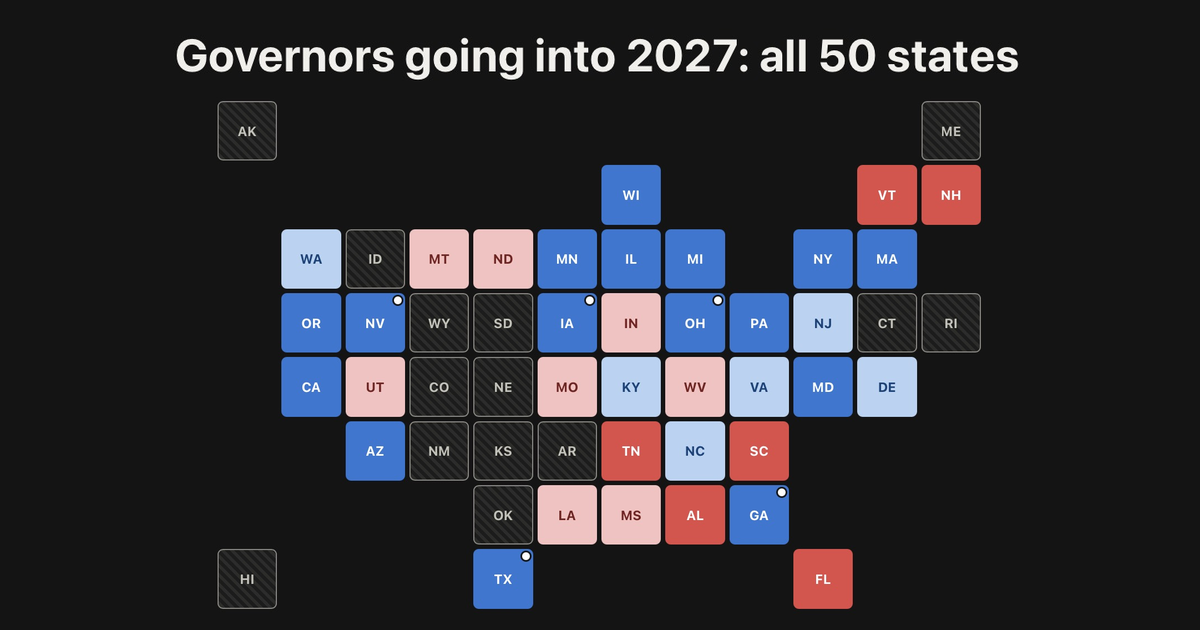
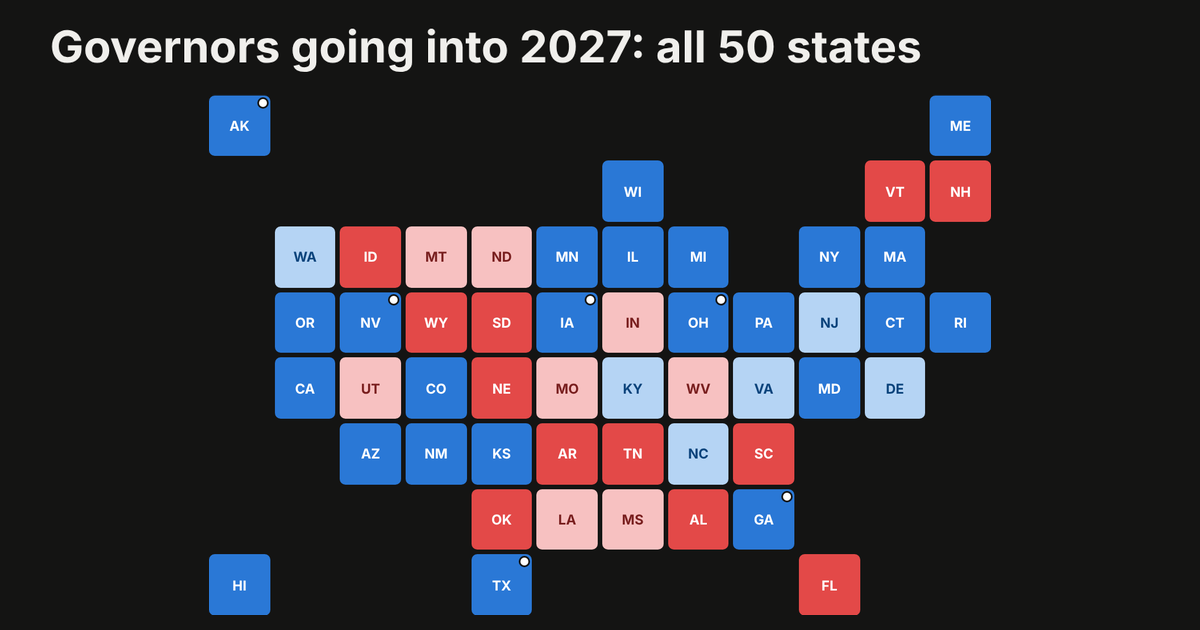
Final governor results with term limits

diff --git a/governor.html b/governor.html
@@ -58,21 +58,21 @@ ul{padding-left:20px;margin:0 0 14px}
 <main>
 <p class="brand">The Truth Hurts! · 7 Levels Deep</p>
 <h1>Governors going into 2027: all 50 states</h1>
-<p class="lead">36 states elected governors on November 3, 2026. Five changed parties, all from Republican to Democrat. Here's who holds every governorship as the results come in.</p>
+<p class="lead">36 states elected governors on November 3, 2026. Six changed parties, all from Republican to Democrat. Here's who holds every governorship going into 2027.</p>
 
 <div class="stats3">
-<div class="stat"><b id="nD" style="color:var(--blue)">22</b><span>Democratic (confirmed)</span></div>
-<div class="stat"><b id="nR" style="color:var(--red)">14</b><span>Republican (confirmed)</span></div>
-<div class="stat"><b id="nP">14</b><span>Pending</span></div>
+<div class="stat"><b id="nD" style="color:var(--blue)">30</b><span>Democratic</span></div>
+<div class="stat"><b id="nR" style="color:var(--red)">20</b><span>Republican</span></div>
+<div class="stat"><b>6</b><span>Flipped, all R to D</span></div>
 </div>
 
+<p class="hint"><b>Term length:</b> 4 years in 48 states, 2 years in New Hampshire and Vermont. <b>Term limits:</b> 37 states limit how long a governor can serve; 13 have no limit.</p>
 <p class="hint">Each square is one state, placed roughly where it sits on the map. Tap any state to see its governor.</p>
 <div class="lg2">
 <span><span class="sw" style="background:#2a78d6"></span>Democrat, decided in 2026</span>
 <span><span class="sw" style="background:#e34948"></span>Republican, decided in 2026</span>
 <span><span class="sw" style="background:#B5D4F4"></span>Democrat, no race in 2026</span>
 <span><span class="sw" style="background:#F7C1C1"></span>Republican, no race in 2026</span>
-<span><span class="sw" style="background:repeating-linear-gradient(45deg,#ddd,#ddd 2px,#999 2px,#999 3px)"></span>Pending</span>
 <span><span class="sw" style="background:#2a78d6"><span style="position:absolute;top:1px;right:1px;width:4px;height:4px;border-radius:50%;background:#fff"></span></span>Flipped in 2026</span>
 </div>
 <div class="gm" id="gm" role="group" aria-label="Tile map of all 50 states by governor's party"></div>
@@ -86,10 +86,11 @@ ul{padding-left:20px;margin:0 0 14px}
 <ul>
 <li><b>Solid colors</b> are races decided in 2026.</li>
 <li><b>Pale colors</b> are the 14 states that didn't elect a governor this year. Kentucky, Louisiana and Mississippi vote in 2027. New Jersey and Virginia vote in 2029. The rest vote in 2028.</li>
-<li><b>Striped squares</b> are races not yet confirmed in the sources we use. They're filled in as results are called.</li>
-<li>A <b>white dot</b> marks a state that flipped parties in 2026: Texas, Georgia, Ohio, Iowa and Nevada.</li>
+<li>A <b>white dot</b> marks a state that flipped parties in 2026: Alaska, Georgia, Iowa, Nevada, Ohio and Texas.</li>
 </ul>
 
+<h2>Term limits: who can run again?</h2>
+<p>Tap any state to see which term its governor is serving in 2027 and that state's limit. Rules differ widely: 28 states cap consecutive terms (usually two), 9 cap lifetime service, Virginia bans back-to-back terms, and 13 states have no limit at all. Vermont's Phil Scott, for example, is starting his sixth two-year term.</p>
 <h2>When do they take office?</h2>
 <p>Most new governors are sworn in during January 2027, but the exact date varies by state. The new Congress is sworn in on January 3, 2027.</p>
 
@@ -98,21 +99,22 @@ ul{padding-left:20px;margin:0 0 14px}
 
 <h2>Sources and method</h2>
 <ul class="fine">
-<li>Race calls: NBC News projections, with Florida from The Washington Post and Vermont from WCAX. A state is shown as decided only when a winner has been projected by a news organization or the opponent has conceded.</li>
+<li>Race calls: NBC News projections and MultiState's results tracker, with Florida from The Washington Post, Vermont from WCAX and Kansas from the Kansas Reflector. A state is shown as decided only when a winner has been projected by a news organization or the opponent has conceded.</li>
 <li>Races are not final until each state certifies its results.</li>
+<li>Term-limit rules: Ballotpedia, "States with gubernatorial term limits." Terms served are counted from each governor's start date; partial terms are noted as "full."</li>
 <li>Party shown is the governor's party. Minnesota's Democratic-Farmer-Labor Party is shown as Democratic.</li>
 </ul>
-<p class="fine">Published by 7 Levels Deep. Last updated November 4, 2026.</p>
+<p class="fine">Published by 7 Levels Deep. Last updated November 15, 2026.</p>
 </main>
 <script>
 const S=[
-["AK","Alaska",0,0,"P","R","Open seat (Dunleavy, R, term-limited)"],
-["ME","Maine",11,0,"P","D","Open seat (Mills, D, term-limited)"],
+["AK","Alaska",0,0,"D","flip","Jonathan Kreiss-Tomkins (D) won the open seat. Flipped"],
+["ME","Maine",11,0,"D","","Hannah Pingree (D) won the open seat"],
 ["WI","Wisconsin",6,1,"D","","David Crowley (D) won the open seat"],
 ["VT","Vermont",10,1,"R","","Phil Scott (R) won a sixth term"],
 ["NH","New Hampshire",11,1,"R","","Kelly Ayotte (R) reelected"],
 ["WA","Washington",1,2,"D","nu","Bob Ferguson (D). Next race in 2028"],
-["ID","Idaho",2,2,"P","R","Brad Little (R) seeking reelection"],
+["ID","Idaho",2,2,"R","","Brad Little (R) reelected"],
 ["MT","Montana",3,2,"R","nu","Greg Gianforte (R). Next race in 2028"],
 ["ND","North Dakota",4,2,"R","nu","Kelly Armstrong (R). Next race in 2028"],
 ["MN","Minnesota",5,2,"D","","Amy Klobuchar (DFL) won the open seat"],
@@ -122,19 +124,19 @@ const S=[
 ["MA","Massachusetts",10,2,"D","","Maura Healey (D) reelected"],
 ["OR","Oregon",1,3,"D","","Tina Kotek (D) reelected"],
 ["NV","Nevada",2,3,"D","flip","Aaron Ford (D) defeated Gov. Joe Lombardo (R). Flipped"],
-["WY","Wyoming",3,3,"P","R","Open seat (Gordon, R, term-limited)"],
-["SD","South Dakota",4,3,"P","R","Larry Rhoden (R) seeking reelection"],
+["WY","Wyoming",3,3,"R","","Eric Barlow (R) won the open seat"],
+["SD","South Dakota",4,3,"R","","Larry Rhoden (R) elected to a full term"],
 ["IA","Iowa",5,3,"D","flip","Rob Sand (D) defeated Zach Lahn (R). Flipped"],
 ["IN","Indiana",6,3,"R","nu","Mike Braun (R). Next race in 2028"],
 ["OH","Ohio",7,3,"D","flip","Amy Acton (D) won the open seat. Flipped"],
 ["PA","Pennsylvania",8,3,"D","","Josh Shapiro (D) reelected"],
 ["NJ","New Jersey",9,3,"D","nu","Mikie Sherrill (D). Next race in 2029"],
-["CT","Connecticut",10,3,"P","D","Ned Lamont (D) seeking reelection"],
-["RI","Rhode Island",11,3,"P","D","Open seat (McKee, D, lost renomination)"],
+["CT","Connecticut",10,3,"D","","Ned Lamont (D) reelected to a third term"],
+["RI","Rhode Island",11,3,"D","","Helena Foulkes (D) won the open seat"],
 ["CA","California",1,4,"D","","Xavier Becerra (D) won the open seat"],
 ["UT","Utah",2,4,"R","nu","Spencer Cox (R). Next race in 2028"],
-["CO","Colorado",3,4,"P","D","Open seat (Polis, D, term-limited)"],
-["NE","Nebraska",4,4,"P","R","Jim Pillen (R) seeking reelection"],
+["CO","Colorado",3,4,"D","","Phil Weiser (D) won the open seat"],
+["NE","Nebraska",4,4,"R","","Jim Pillen (R) reelected"],
 ["MO","Missouri",5,4,"R","nu","Mike Kehoe (R). Next race in 2028"],
 ["KY","Kentucky",6,4,"D","nu","Andy Beshear (D). Next race in 2027"],
 ["WV","West Virginia",7,4,"R","nu","Patrick Morrisey (R). Next race in 2028"],
@@ -142,25 +144,26 @@ const S=[
 ["MD","Maryland",9,4,"D","","Wes Moore (D) reelected"],
 ["DE","Delaware",10,4,"D","nu","Matt Meyer (D). Next race in 2028"],
 ["AZ","Arizona",2,5,"D","","Katie Hobbs (D) reelected"],
-["NM","New Mexico",3,5,"P","D","Open seat (Lujan Grisham, D, term-limited)"],
-["KS","Kansas",4,5,"P","D","Open seat (Kelly, D, term-limited)"],
-["AR","Arkansas",5,5,"P","R","Sarah Huckabee Sanders (R) seeking reelection"],
+["NM","New Mexico",3,5,"D","","Deb Haaland (D) won the open seat"],
+["KS","Kansas",4,5,"D","","Cindy Holscher (D) won the open seat; Ty Masterson (R) conceded Nov. 12"],
+["AR","Arkansas",5,5,"R","","Sarah Huckabee Sanders (R) reelected"],
 ["TN","Tennessee",6,5,"R","","Marsha Blackburn (R) won the open seat"],
 ["NC","North Carolina",7,5,"D","nu","Josh Stein (D). Next race in 2028"],
 ["SC","South Carolina",8,5,"R","","Alan Wilson (R) won the open seat"],
-["OK","Oklahoma",4,6,"P","R","Open seat (Stitt, R, term-limited)"],
+["OK","Oklahoma",4,6,"R","","Mike Mazzei (R) won the open seat"],
 ["LA","Louisiana",5,6,"R","nu","Jeff Landry (R). Next race in 2027"],
 ["MS","Mississippi",6,6,"R","nu","Tate Reeves (R). Next race in 2027"],
 ["AL","Alabama",7,6,"R","","Tommy Tuberville (R) won the open seat"],
 ["GA","Georgia",8,6,"D","flip","Keisha Lance Bottoms (D) won the open seat. Flipped"],
-["HI","Hawaii",0,7,"P","D","Josh Green (D) seeking reelection"],
+["HI","Hawaii",0,7,"D","","Josh Green (D) reelected"],
 ["TX","Texas",4,7,"D","flip","Gina Hinojosa (D) defeated Gov. Greg Abbott (R). Flipped"],
 ["FL","Florida",9,7,"R","","Byron Donalds (R) won the open seat"]];
+const LIM={"AL": ["Two consecutive terms", "1st", 0], "AK": ["Two consecutive terms", "1st", 0], "AZ": ["Two consecutive terms", "2nd", 1], "AR": ["Two terms, lifetime", "2nd", 1], "CA": ["Two terms, lifetime", "1st", 0], "CO": ["Two consecutive terms", "1st", 0], "CT": ["No limit", "3rd", 0], "DE": ["Two terms, lifetime", "1st", 0], "FL": ["Two consecutive terms", "1st", 0], "GA": ["Two consecutive terms", "1st", 0], "HI": ["Two consecutive terms", "2nd", 1], "ID": ["No limit", "3rd", 0], "IL": ["No limit", "3rd", 0], "IN": ["8 of any 12 years", "1st", 0], "IA": ["No limit", "1st", 0], "KS": ["Two consecutive terms", "1st", 0], "KY": ["Two consecutive terms", "2nd", 1], "LA": ["Two consecutive terms", "1st", 0], "ME": ["Two consecutive terms", "1st", 0], "MD": ["Two consecutive terms", "2nd", 1], "MA": ["No limit", "2nd", 0], "MI": ["Two terms, lifetime", "1st", 0], "MN": ["No limit", "1st", 0], "MS": ["Two terms, lifetime", "2nd", 1], "MO": ["Two terms, lifetime", "1st", 0], "MT": ["8 of any 16 years", "2nd", 1], "NE": ["Two consecutive terms", "2nd", 1], "NV": ["Two terms, lifetime", "1st", 0], "NH": ["No limit", "2nd", 0], "NJ": ["Two consecutive terms", "1st", 0], "NM": ["Two consecutive terms", "1st", 0], "NY": ["No limit", "2nd full", 0], "NC": ["Two consecutive terms", "1st", 0], "ND": ["Two terms, lifetime", "1st", 0], "OH": ["Two consecutive terms", "1st", 0], "OK": ["8 years, lifetime", "1st", 0], "OR": ["8 of any 12 years", "2nd", 1], "PA": ["Two consecutive terms", "2nd", 1], "RI": ["Two consecutive terms", "1st", 0], "SC": ["Two consecutive terms", "1st", 0], "SD": ["Two consecutive terms", "1st full", 0], "TN": ["Two consecutive terms", "1st", 0], "TX": ["No limit", "1st", 0], "UT": ["No limit", "2nd", 0], "VT": ["No limit", "6th", 0], "VA": ["No back-to-back terms", "1st", 1], "WA": ["No limit", "1st", 0], "WV": ["Two consecutive terms", "1st", 0], "WI": ["No limit", "1st", 0], "WY": ["8 of any 16 years", "1st", 0]};
 const gm=document.getElementById('gm'),info=document.getElementById('info');
 const cells=Array(96).fill(null);S.forEach(s=>{cells[s[3]*12+s[2]]=s});
 let sel=null,c={D:0,R:0,P:0};
 S.forEach(s=>c[s[4]]++);
-document.getElementById('nD').textContent=c.D;document.getElementById('nR').textContent=c.R;document.getElementById('nP').textContent=c.P;
+document.getElementById('nD').textContent=c.D;document.getElementById('nR').textContent=c.R;
 cells.forEach(s=>{
  if(!s){gm.appendChild(document.createElement('div'));return}
  const b=document.createElement('button');
@@ -171,7 +174,7 @@ cells.forEach(s=>{
   if(s[4]==='P')st='Pending. Held by '+(s[5]==='D'?'Democrats':'Republicans')+' before the election';
   else if(s[5]==='nu')st=(s[4]==='D'?'Democrat':'Republican')+'. No governor race in 2026';
   else st=(s[4]==='D'?'Democrat':'Republican')+(s[5]==='flip'?', flipped in 2026':', decided in 2026');
-  info.innerHTML='<b>'+s[1]+'</b><br>'+s[6]+'<br><span style="font-size:14px">'+st+'</span>'};
+  const l=LIM[s[0]],len=(s[0]==='NH'||s[0]==='VT')?'2-year terms':'4-year terms';info.innerHTML='<b>'+s[1]+'</b><br>'+s[6]+'<br><span style="font-size:14px">'+st+'</span>'+'<br><span style="font-size:14px">Term in 2027: '+l[1]+(l[2]?(s[0]==='VA'?' (can\'t run for reelection)':(l[0].includes('consecutive')?' (last consecutive term allowed)':' (final term allowed)')):'')+' · '+len+' · Limit: '+l[0]+'</span>'};
  gm.appendChild(b)});
 </script>
 </body>

diff --git a/index.html b/index.html
@@ -39,11 +39,11 @@ div.card b{display:block;font-size:20px;margin-bottom:4px}
 <div class="cards">
 <a class="card" href="house.html"><b>The House</b><span>The president's party lost ground in 37 of 41 midterms.</span><span class="go">View the House chart &rarr;</span></a>
 <a class="card" href="senate.html"><b>The Senate</b><span>The president's party lost ground in 27 of 41 midterms.</span><span class="go">View the Senate chart &rarr;</span></a>
-<a class="card" href="governor.html"><b>Governors</b><span>Who holds every governorship going into 2027. Five states flipped in 2026.</span><span class="go">View the governors map &rarr;</span></a>
+<a class="card" href="governor.html"><b>Governors</b><span>Who holds every governorship going into 2027. Six states flipped in 2026, all from Republican to Democrat.</span><span class="go">View the governors map &rarr;</span></a>
 </div>
 <a class="cta" href="https://7levelsdeep.substack.com/subscribe">Subscribe to The Truth Hurts!</a>
 <p class="fine" style="text-align:center">Free to subscribe. Because sometimes the truth hurts.</p>
-<p class="fine">2026 results will be added once all races are called and certified. Published by 7 Levels Deep. Last updated November 4, 2026.</p>
+<p class="fine">2026 results will be added once all races are called and certified. Published by 7 Levels Deep. Last updated November 15, 2026.</p>
 </main>
 </body>
 </html>
